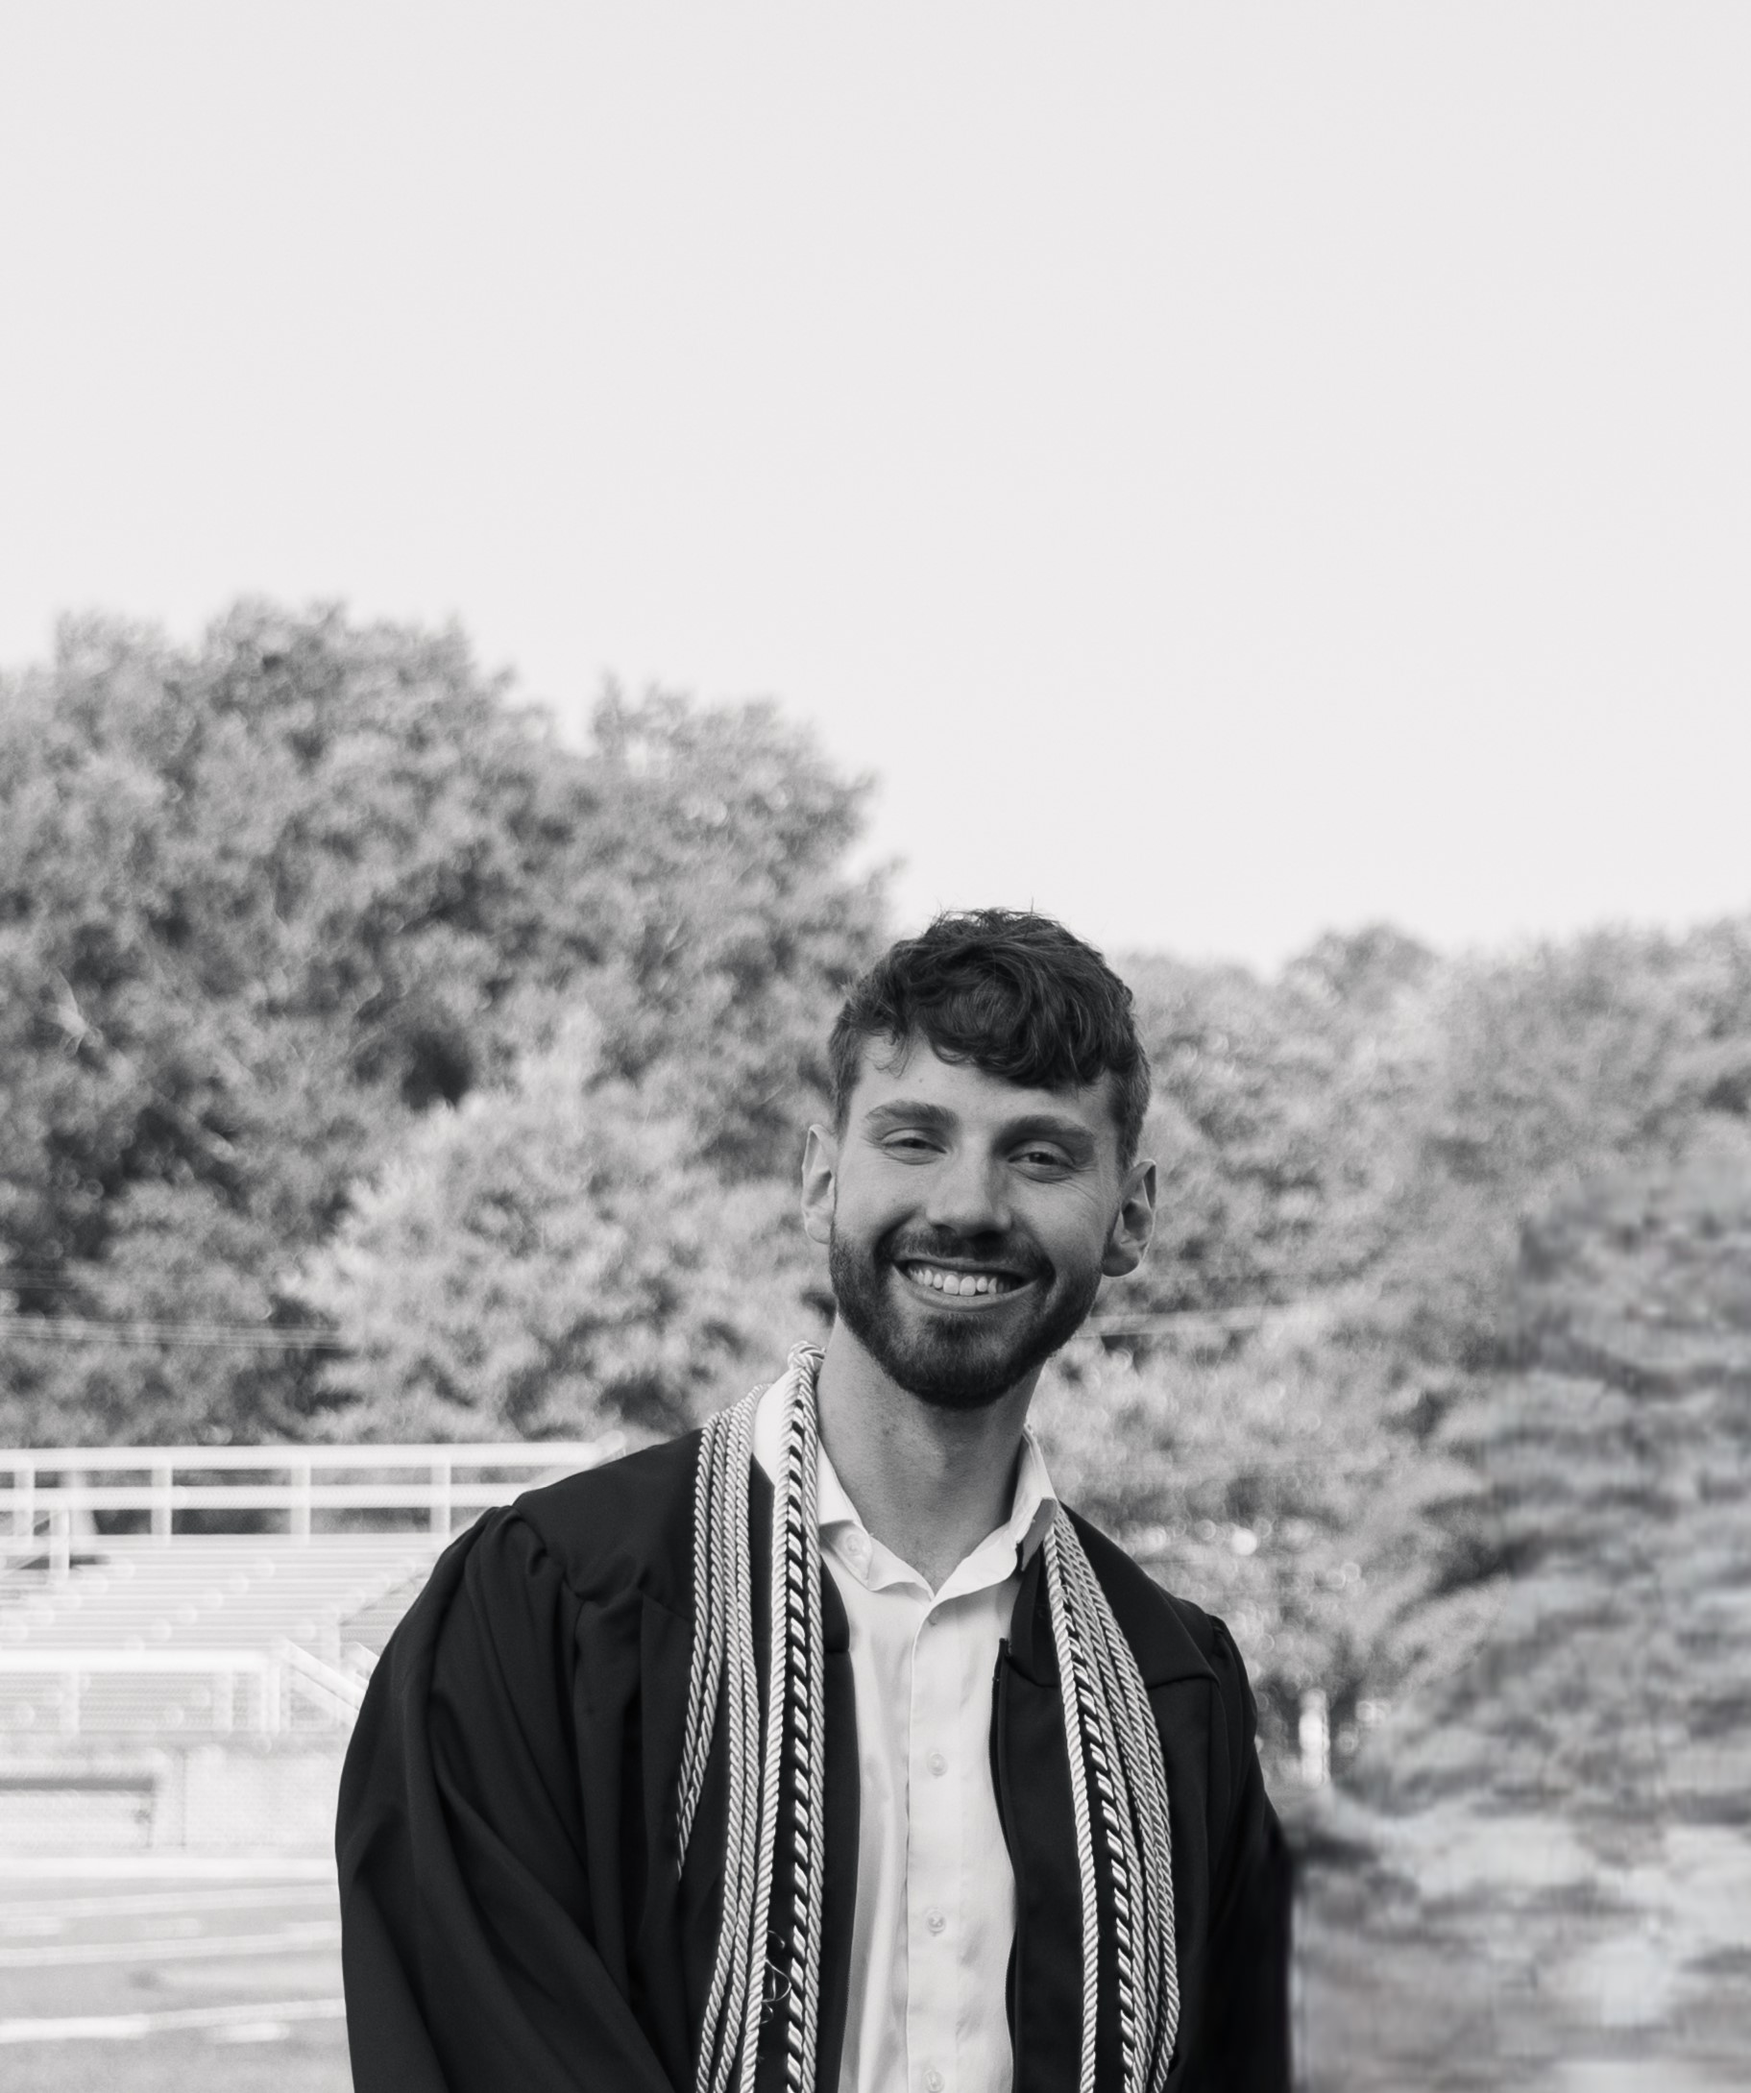
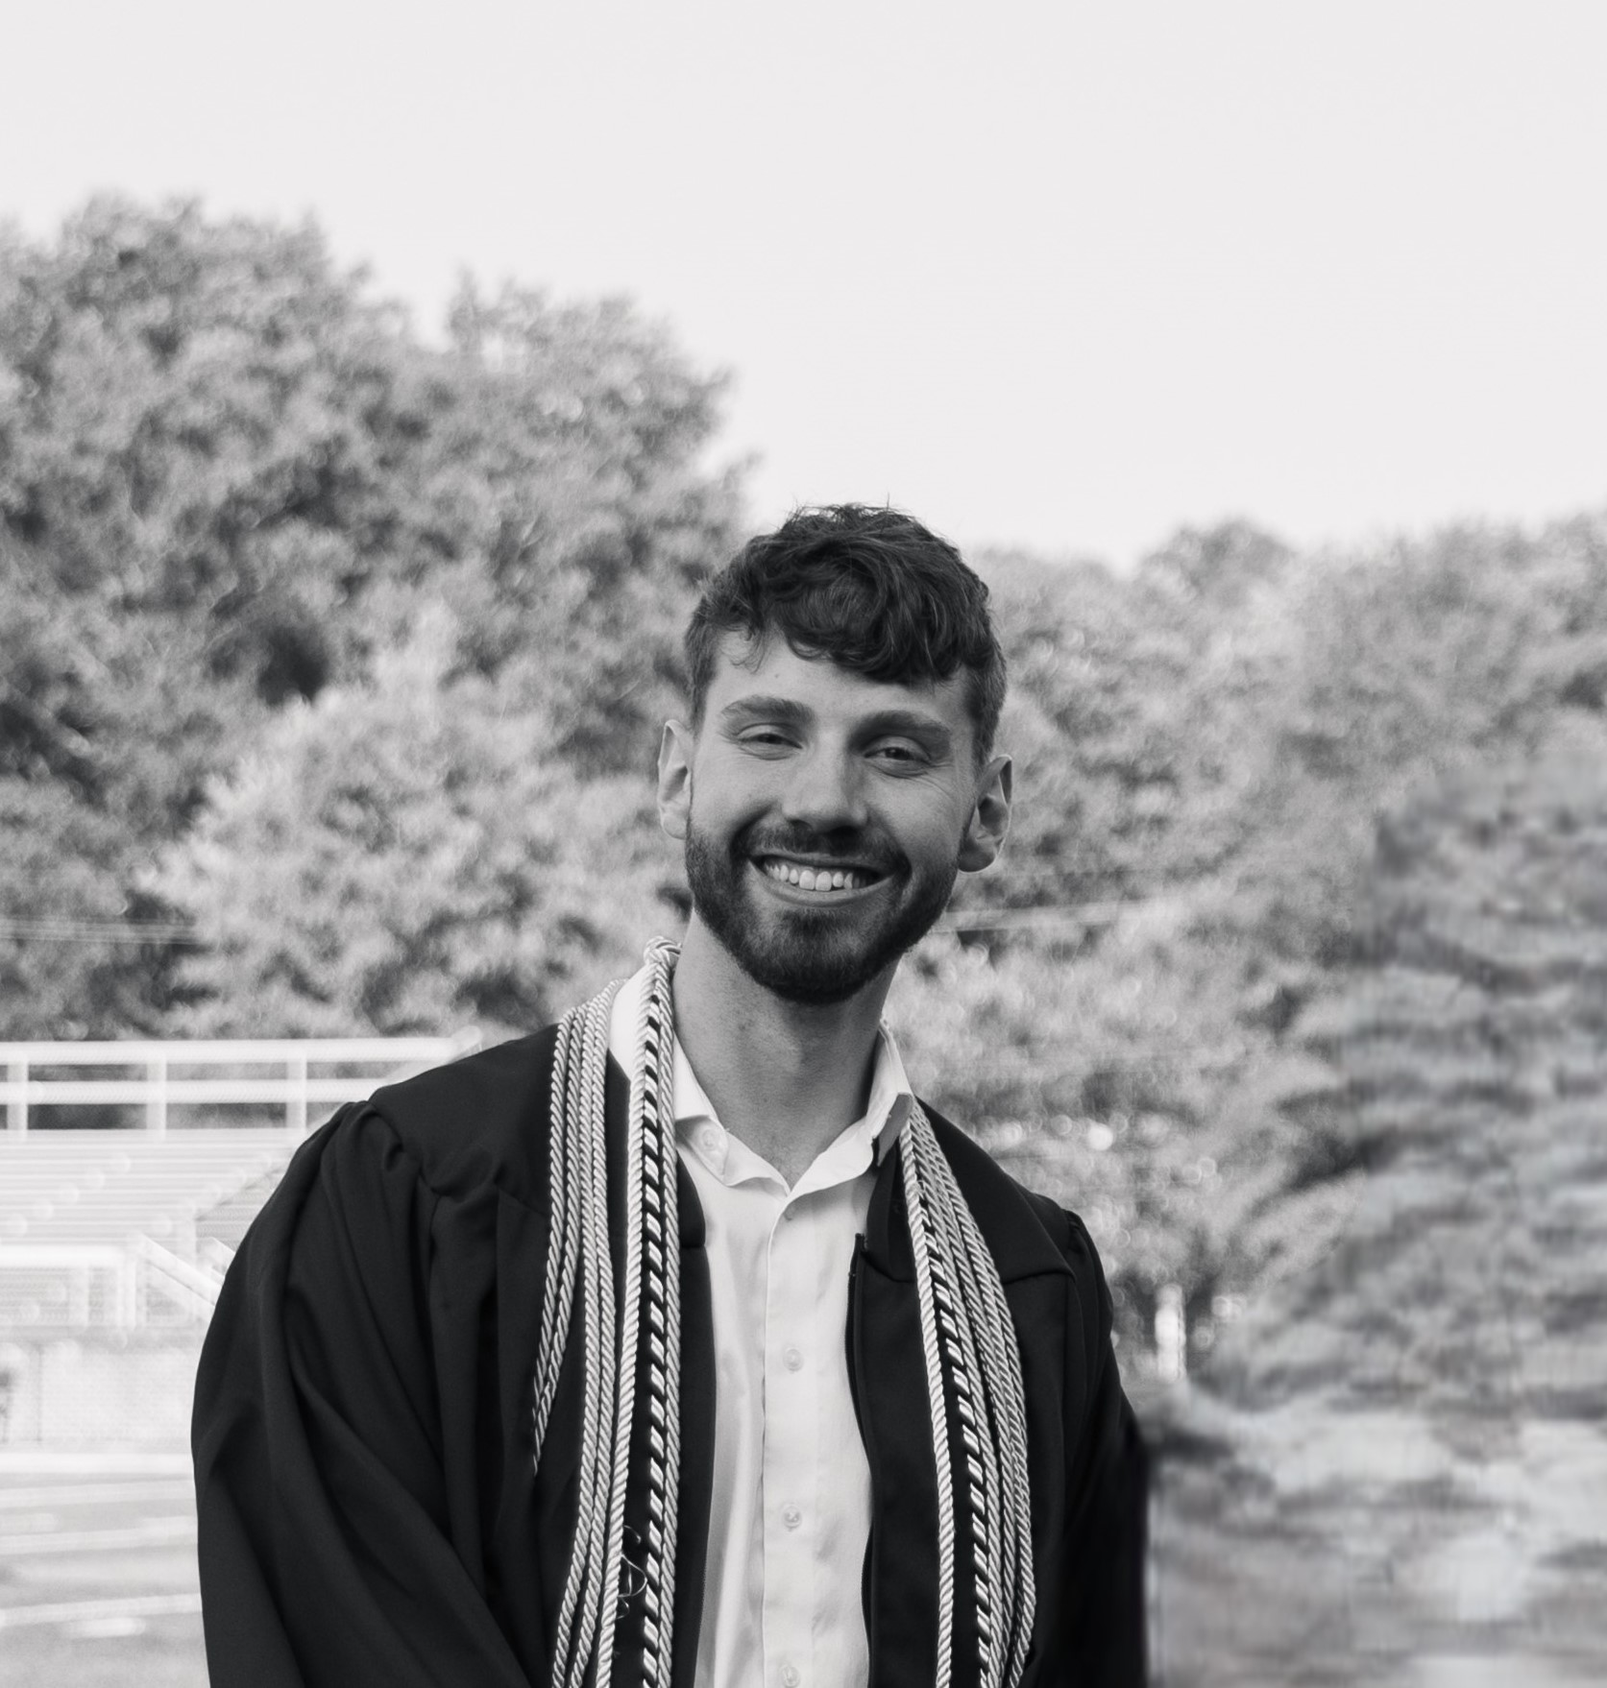
made even prettier

diff --git a/index.html b/index.html
@@ -571,7 +571,7 @@ pointer-events: none;
 }
 
 .portrait-section.animate .portrait-name-overlay {
-opacity: 0.15;
+opacity: 0.25;
 transform: translateY(0);
 transition-delay: 0.6s;
 }
@@ -948,9 +948,8 @@ nav {
 <section class="hero" id="home">
 <div class="hero-content">
 <h1 class="hero-title">
-    <span>CREATIVE</span><br>
-    <span>DIRECTION</span><br>
-    <span>& DESIGN</span>
+    <span>AARON</span><br>
+    <span>MARKER</span>
 </h1>
 <p class="hero-subtitle">Visual Storyteller</p>
 </div>
@@ -966,7 +965,7 @@ nav {
     <div class="portrait-main">
         <div class="portrait-image"></div>
     </div>
-    <div class="portrait-name-overlay">YOUR NAME</div>
+    <div class="portrait-name-overlay">Aaron Marker</div>
 </div>
 <div class="portrait-text">
     <p class="portrait-label">Introduction</p>
